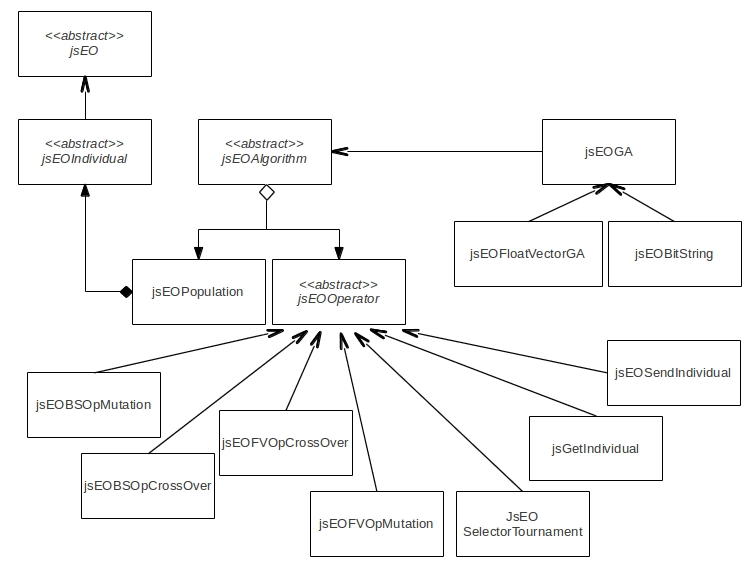
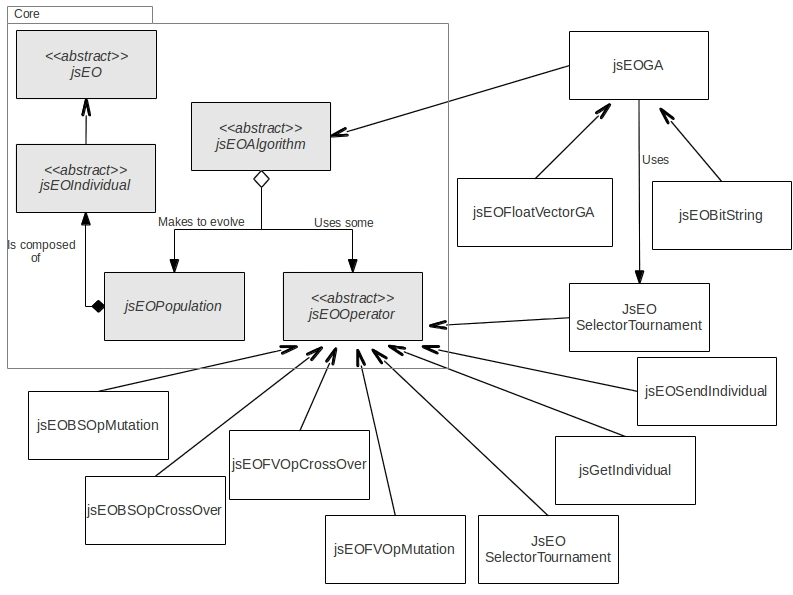
Adding the library description and the class-diagram

diff --git a/2013/EvoStar/jsEO/jseo-2013.tex b/2013/EvoStar/jsEO/jseo-2013.tex
@@ -243,14 +243,30 @@ of work.
 
 \section{The jsEO library}
 \label{sec:jseo}
-In order to provide a modular, flexible, and object-oriented library, jsEO has been programmed in Javascript language, making use of the inheritance provided by the Mootools framework. Like their predecessors EO (written in C++) and JEO (written in Java), jsEO is based on the keypoint that any object that can be attached some kind of fitness value is a potential candidate to be evolved.
+In order to provide a modular, flexible, and object-oriented library, jsEO has been programmed in Javascript language, making use of the inheritance provided by the Mootools framework. Like their predecessors EO (written in C++) and JEO (written in Java), jsEO is based on the keypoint that any object that can be attached some kind of fitness value is a potential candidate to be evolved. The jsEO library can de download from http://github.com/vrivas/jsEO and is been developed under GNU GPLv2 license.
 
 Javascript's main advantage is that can be executed in most (if not any) web browsers. This allows programs written in this language to be executed in millions of computers, and other devices like smartphones and tablets, among many others. Javascript was mainly designed to operate on the document object model (DOM) browsers generate for every web page they load, thus, content, estructure and format style can be dinamically changed while a web page is being visited.
 
 On the other hand, Javascript's main drawbacks come from the fact that it is interpreted, not compiled, (i.e., slower than desired), it has no access to every resource of the device (e.g. file systems,  memory, or output devices), and that its execution can be stopped by web-browsers if it is consuming too many resources.
 
-Fig.~\ref{fig:jsEO-str} shows the class structure of the library. As can be seen, there exist some abstract class which define the general structure of any evolutionary solution to a given problem. Main class is jsEO, which represents any object to which a fitness can be assigned and, consequently, that can be compared with any other. Starting from jsEO class, class jsEOIndividual can be derived representing any object that contains a chromosome and, therefore, can be evaluated by means of a fitness function. A jsEOPopulation is composed of individuals; it can be used to add, replace or remove individuals, can be sorted, and can be also asked to return a subset of individuals.
+Fig.~\ref{fig:jsEO-str} shows the class diagram of the library. As can be seen, there exist some abstract class which define the general structure of any evolutionary solution to a given problem. Main class is jsEO, which represents any object to which a fitness can be assigned, and, consequently, that can be compared with any other. Starting from jsEO class, class jsEOIndividual can be derived representing any object that contains a chromosome and, therefore, can be evaluated by means of a fitness function. A jsEOPopulation is an aggregation of individuals; it can be used to add, replace or remove individuals, can be sorted, and can be also asked to return a subset of individuals.
 
+In order to build algorithms, operators have to be defined. Any operator gets a population as input parameter and also returns a population; thus, it is designed for both operators affecting only one individual, as well as operators acting over a whole population.
+
+Once defined the initial core set of abstract classes (except for jsEOPopulation), concrete classes has been derivated in order to implement the standard Genetic Algorithm (jsEOGA), that uses de tournament selector in order to create subpopulations to which mutators and crossover operators can be applied in order to make them evolve.
+
+Two special operators have been implemented in order to solve problems in a cooperative environment. The first one, jsEOSendIndividual, is intended to send the chromosome and fitness of the best individual to a server where it is stored in case it is best solution found up to the moment. The second one, jsEOGetIndividual makes exactly the opposite: it asks the server for the individual being stored and includes it as a new individual in the population. The comunication between the client and ther serves is done using AJAX technology, and made in an asynchonus way when sending the individual to the server, but in a synchronus way in te case of the jsEOGetIndividual. Currently, the server has been programmed in PHP and stores data in a row file, in order to ease the implementantion on anyone's server. Every synchronized problem executed with jsEO has to be assigned an unic identifier so that the server can discriminate every task when receiving and sending individuals to the clients.
+
+\begin{figure}
+\centering
+\includegraphics[height=10cm]{class-diagram.jpg}
+\caption{One kernel at $x_s$ (\emph{dotted kernel}) or two kernels at
+$x_i$ and $x_j$ (\textit{left and right}) lead to the same summed estimate
+at $x_s$. This shows a figure consisting of different types of
+lines. Elements of the figure described in the caption should be set in
+italics, in parentheses, as shown in this sample caption.}
+\label{fig:example}
+\end{figure}
 
 \section{Methodology and Experimental Setup}
 \label{sec:method}
